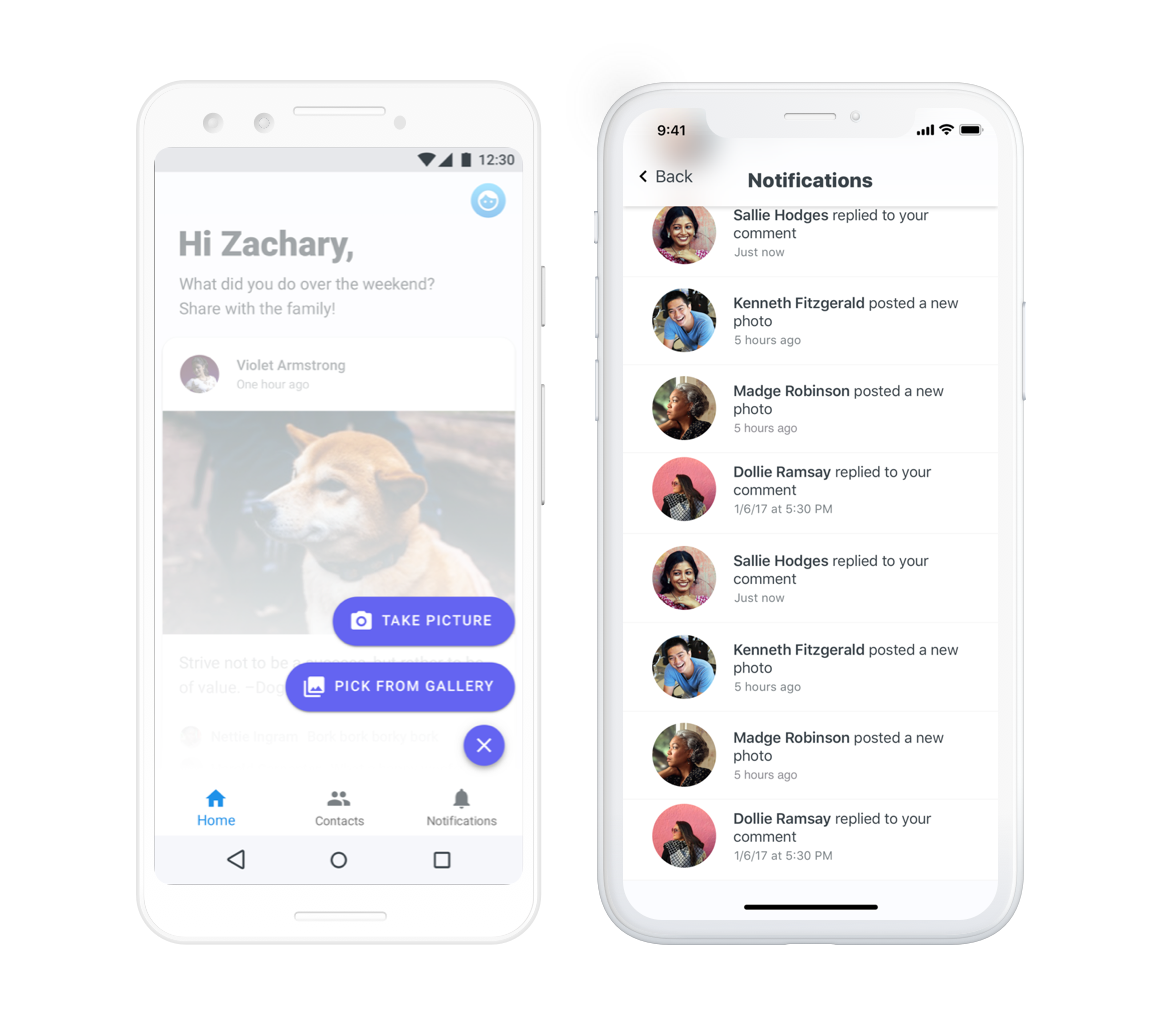
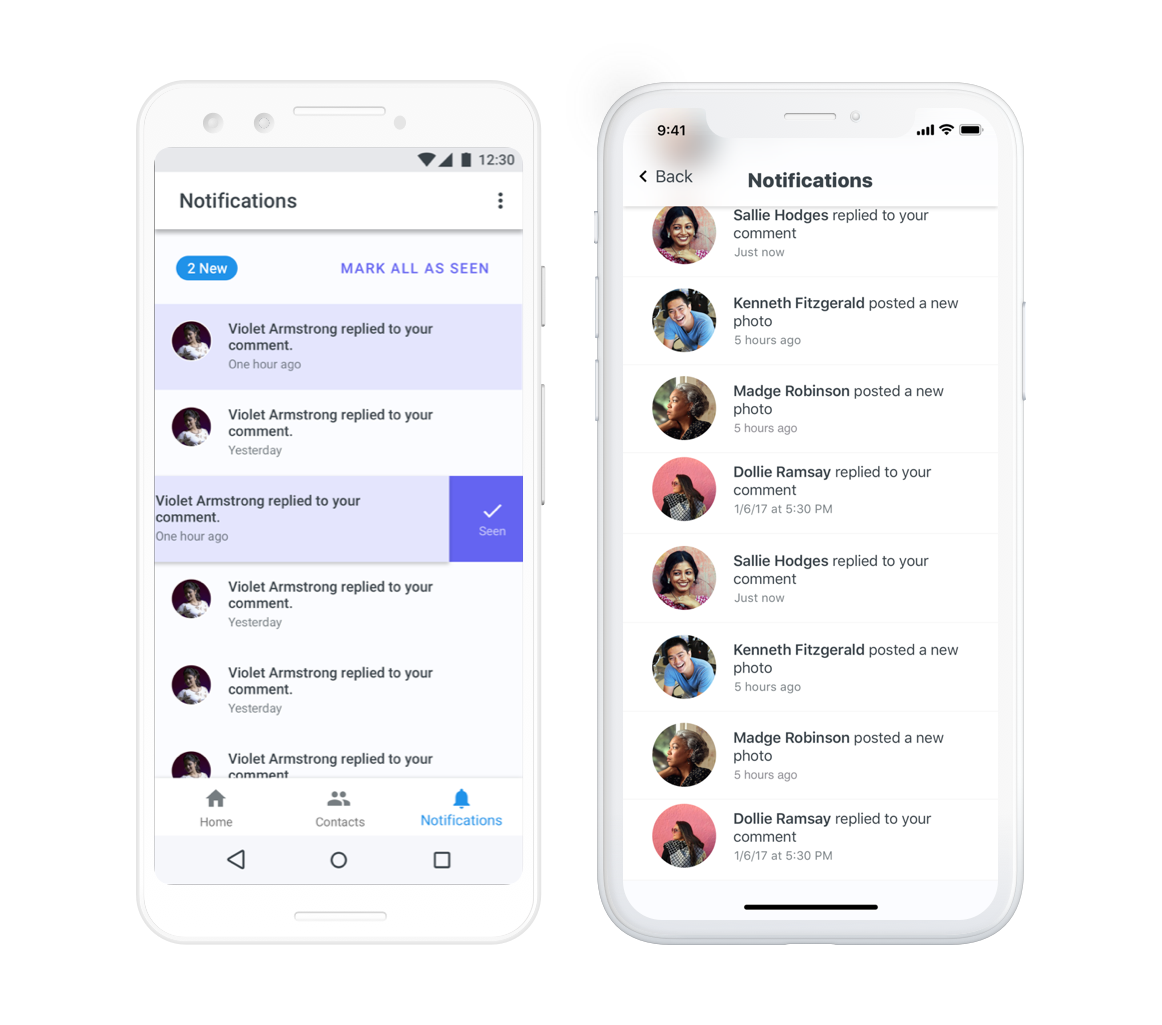
add text to companion screenshots

Changed region(s): [[0.1239, 0.1561, 0.4647, 0.8117], [0.3718, 0.7805, 0.4337, 0.8117], [0.2788, 0.7805, 0.3098, 0.8117]]

diff --git a/src/content/projects/companion/companion.md b/src/content/projects/companion/companion.md
@@ -29,36 +29,48 @@ The iOS redesign came first, so it was going to set the direction for the Androi
 <br /><br /><br />
 
 #### The iOS & Android Apps
-Full disclaimer: The design of the bottom tabs with an action button over it ended up getting axed towards the end of development. The shipped version has a standard bottom navigation and a "New Post" button in the top toolbar.
+Disclaimer: The design of the bottom tabs with an action button over it ended up getting axed towards the end of the iOS development. The shipped version has a standard bottom navigation and a "New Post" button in the top toolbar.
 
 ##### Signup and Login
 ![signup and login screens](./images/signup.png)
+After users were invited to the private family network, they could set up an account from within the app and choose a profile photo.
 
 ##### Home/Photo Feed
 ![home screen](./images/feed.png)
+This was the most-used section of the app. Any photo that had been shared, from a GrandPad tablet or a companion app, would show up in the feeds of the entire family. We allowed for hiding posts from individual contacts because sometimes family dynamics are complicated.
 
 ##### Contacts
 ![contacts screens](./images/contacts.png)
+Each contact in the family network had a dedicated screen to contact them and to show all the photos they had shared. Through user feedback we learned that being able to see the local weather for contacts was a much-loved feature, so it stayed in the redesign.
 
 ##### Post View
 ![post detail screens](./images/post-detail.png)
+Voice comments in the post view got a much-needed upgrade. The ability to play and pause was added, and we now showed the length of the voice comment so users knew how long they would need to listen for.
+
+I added a bar with a small post preview that expanded down as users scrolled through comments, to provide context as to what photo was being commented on. This was mainly helpful in the case when a user was sent to a comment from a notification. Sometimes the comment wasn't at the top of the list, and for simplicity's sake we wanted to send users to the comment list on the photo screen instead of a dedicated screen for comments. 
+
+![post detail screens](./images/post-detail-2.png)
+For commenting on a post, we included a text box that expanded as you typed multiple lines. This way we could support showing more than one line of the comment being typed, and users could quickly review their comment before posting it.
+
+Each post had a dedicated photo-only view that provided more of a photo gallery type of view.
+
 
 ##### New Post
 ![new post screens](./images/new-post.png)
+On Android, we used the Floating Action Button component to provide a quick way to choose where between photo sources when making a new post.
+
+In a following update, we allowed users to add more than one photo to a post. The screen on the right allowed users to see an overview of all the photos that were being posted and write one caption for the post.
 
 ##### Notification Center
 ![notification center screens](./images/notifications.png)
+A central place to see all notifications was finally added to the app. This screen also allowed users to manage notifications by marking them as seen with a swipe.
 
 ##### Video Call
 ![video call screens](./images/video-call.png)
+Another much-used feature of GrandPad's platform was video calling. The platform supported video calls between GrandPad tablets and companion apps, in any configuration.
+<br /><br /><br />
 
 #### Results
 Both projects successfully launched and are live on the App Store and Google Play Store. You can see the listing here:
 [App Store](/project/grandpad-checkout)
 [Play Store](/project/grandpad-checkout)
-
-
-
-<!-- ![](./images/subdivide-cover.png) -->
-
-<!-- <img src="/assets/static/content/projects/subdivide/subdivide-cover.png" > -->
